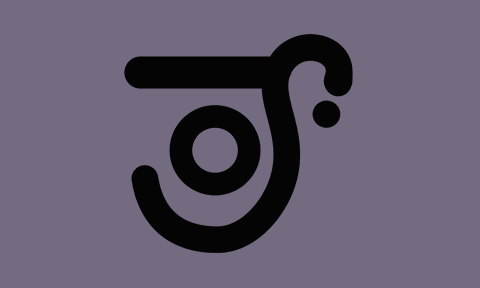
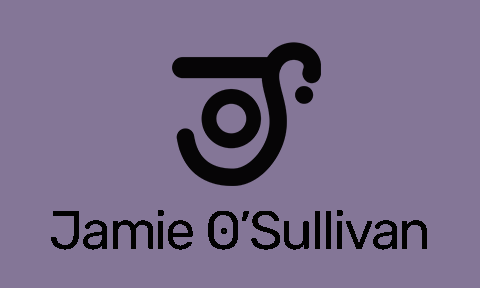
Added more images. Issues with several rows and spacing

Changed region(s): [[0.0938, 0.0938, 0.9062, 0.9062], [0.5625, 0.1562, 0.5938, 0.1875]]

diff --git a/index.html b/index.html
@@ -31,7 +31,7 @@
             <a href="https:/">Amanda Avery,</a>
             <br>
             <a href="https:">Amanda Driscoll,</a>
-            <a href="https:">Ashley Keith,</a>
+            <a href="https://ashleykeith.cargo.site/">Ashley Keith,</a>
             <a href="https://bthwingportfolio.cargo.site">Ben Thwing,</a>
             <a href="https">Christine Truong,</a>
             <a href="https://creativechristinew.com">Christine Weir,</a>
@@ -98,15 +98,15 @@
             <h3 class="personTitle">Graphic Designer | Interdisciplinary Artist</h3>
             <a class="boxLink" href="https://allypatriciac.github.io">View Portfolio</a>
             <div class="boxPreview">
-                <a href="https://allypatriciac.github.io"><img src="cravinho.png"></img></a>
+                <a href="https://allypatriciac.github.io"><img src="assets/alyson-gordon.png"></img></a>
             </div>
         </div>
         <div class="avery" id="avery">
             <h1 class="boxTitle">Amanda Avery</h1>
             <h3 class="personTitle">Graphic Designer</h3>
-            <a class="boxLink" href="https://masonwgomes.github.io/">View Portfolio</a>
+            <a class="boxLink" href="">View Portfolio</a>
             <div class="boxPreview">
-               <a href="https://masonwgomes.github.io/"><img src="gomes.png"></img></a>
+               <a href="h"><img src="assets/amanda-avery.jpg"></img></a>
             </div>
         </div>
     </div>
@@ -115,17 +115,17 @@
         <div class="driscoll" id="driscoll" >
             <h1 class="boxTitle">Amanda Driscoll</h1>
             <h3 class="personTitle temp">Graphic Designer | Photographer | Interdisciplinary Artist</h3>
-            <a class="boxLink" href="https://hunterjohnsondesigns.github.io">View Portfolio</a>
+            <a class="boxLink" href="htt">View Portfolio</a>
             <div class="boxPreview">
-                <a href="https://hunterjohnsondesigns.github.io"><img src="johnson.png"></img></a>
+                <a href="htt"><img src="johnson.png"></img></a>
             </div>
         </div>
         <div class="keith" id="keith">
             <h1 class="boxTitle tempName">Ashley Keith</h1>
             <h3 class="personTitle temp">Graphic Designer</h3>
-            <a class="boxLink" href="https://monikajanina.github.io">View Portfolio</a>
+            <a class="boxLink" href="https://ashleykeith.cargo.site/">View Portfolio</a>
             <div class="boxPreview">
-               <a href="https://monikajanina.github.io"><img src="monika.png"></img></a>
+               <a href="https://ashleykeith.cargo.site/"><img src="monika.png"></img></a>
             </div>
         </div>
     
@@ -143,9 +143,9 @@
         <div class="truong" id="truong">
             <h1 class="boxTitle">Christine Truong</h1>
             <h3 class="personTitle">Graphic Designer</h3>
-            <a class="boxLink" href="https://abbylonergan.github.io">View Portfolio</a>
+            <a class="boxLink" href="https">View Portfolio</a>
             <div class="boxPreview">
-                <a href="https://abbylonergan.github.io"><img src="lonergan.png"></img></a>
+                <a href="htt"><img src="lonergan.png"></img></a>
             </div>
         </div>
     </div>
@@ -174,18 +174,18 @@
         <div class="falce" id="falce">
             <h1 class="boxTitle">Dylan Falce</h1>
             <h3 class="personTitle">Graphic Designer</h3>
-            <a class="boxLink" href="https://thegingerbenman.github.io">View Portfolio</a>
+            <a class="boxLink" href="https:">View Portfolio</a>
             <div class="boxPreview">
-               <a href="https://thegingerbenman.github.io"><img src="melavin.png"></img></a>
+               <a href="https://t"><img src="melavin.png"></img></a>
             </div>
         </div>
 
         <div class="osullivan" id="osullivan">
             <h1 class="boxTitle">Jamie O'Sullivan</h1>
             <h3 class="personTitle">Graphic Designer & Illustrator</h3>
-            <a class="boxLink" href="https://marissanocon.github.io/portfoliosite">View Portfolio</a>
+            <a class="boxLink" href="https://jamieosullivan.cargo.site/">View Portfolio</a>
             <div class="boxPreview">
-                <img src="assets/jamie-osullivan.png"></img>
+                <a href="https://jamieosullivan.cargo.site/"><img src="assets/jamie-osullivan.png"></img>
             </div>
         </div>
     </div>
@@ -216,7 +216,7 @@
             <h3 class="personTitle">Graphic Designer & Photographer</h3>
             <a class="boxLink" href="https://katepereiradesign.cargo.site">View Portfolio</a>
             <div class="boxPreview">
-               <a href="https://katepereiradesign.cargo.site"><img src="trull.png"></img></a>
+               <a href="https://katepereiradesign.cargo.site"><img src="assets/katelyn-pereira.png"></img></a>
             </div>
         </div>
         <div class="keeney" id="keeney">
@@ -233,9 +233,9 @@
         <div class="nocon" id="nocon">
             <h1 class="boxTitle">Marissa Nocon</h1>
             <h3 class="personTitle">Graphic Designer</h3>
-            <a class="boxLink" href="https://liztrull.com">View Portfolio</a>
+            <a class="boxLink" href="http">View Portfolio</a>
             <div class="boxPreview">
-               <a href="https://liztrull.com"><img src="trull.png"></img></a>
+               <a href="htt"><img src="trull.png"></img></a>
             </div>
         </div>
         <div class="williamson" id="williamson">
@@ -262,7 +262,7 @@
             <h3 class="personTitle">Graphic Designer</h3>
             <a class="boxLink" href="https://magdesigns.cargo.site"View Portfolio</a>
             <div class="boxPreview">
-               <a href="https://magdesigns.cargo.site"><img src="welch.png"></img></a>
+               <a href="https://magdesigns.cargo.site"><img src="assets/michael-gedeon.png"></img></a>
             </div>
         </div>
     </div>
@@ -271,9 +271,9 @@
         <div class="reese" id="reese">
             <h1 class="boxTitle">Myavana Reese</h1>
             <h3 class="personTitle">Graphic Designer</h3>
-            <a class="boxLink" href="https://liztrull.com">View Portfolio</a>
+            <a class="boxLink" href="http">View Portfolio</a>
             <div class="boxPreview">
-               <a href="https://liztrull.com"><img src="trull.png"></img></a>
+               <a href="httpm"><img src="trull.png"></img></a>
             </div>
         </div>
         <div class="galleano" id="galleano">
@@ -281,7 +281,7 @@
             <h3 class="personTitle">Graphic Designer | Artist</h3>
             <a class="boxLink" href="https://nahjae-design.cargo.site">View Portfolio</a>
             <div class="boxPreview">
-               <a href="https://nahjae-design.cargo.site"><img src="welch.png"></img></a>
+               <a href="https://nahjae-design.cargo.site"><img src="assets/nahjae-galleano.jpeg"></img></a>
             </div>
         </div>
     </div>
@@ -311,7 +311,7 @@
             <h3 class="personTitle">Graphic Designer</h3>
             <a class="boxLink" href="https://dangvryan.github.io/blog/">View Portfolio</a>
             <div class="boxPreview">
-               <a href="https://dangvryan.github.io/blog/"><img src="trull.png"></img></a>
+               <a href="https://dangvryan.github.io/blog/"><img src="assets/ryan-dang.jpg"></img></a>
             </div>
         </div>
         <div class="england" id="england">
@@ -330,7 +330,7 @@
             <h3 class="personTitle">Graphic Designer</h3>
             <a class="boxLink" href="https://srobinson.cargo.site">View Portfolio</a>
             <div class="boxPreview">
-               <a href="https://srobinson.cargo.site"><img src="trull.png"></img></a>
+               <a href="https://srobinson.cargo.site"><img src="assets/sarah-robinson.jpg"></img></a>
             </div>
         </div>
         <div class="laurie" id="laurie">
